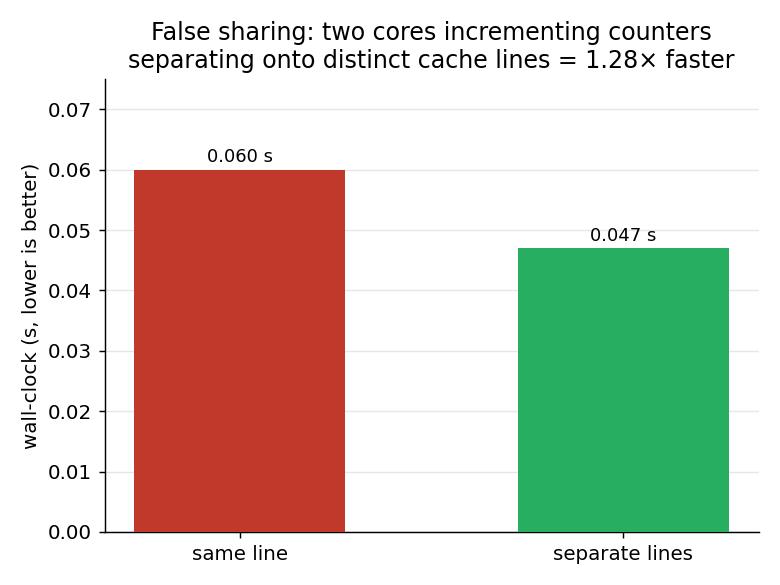
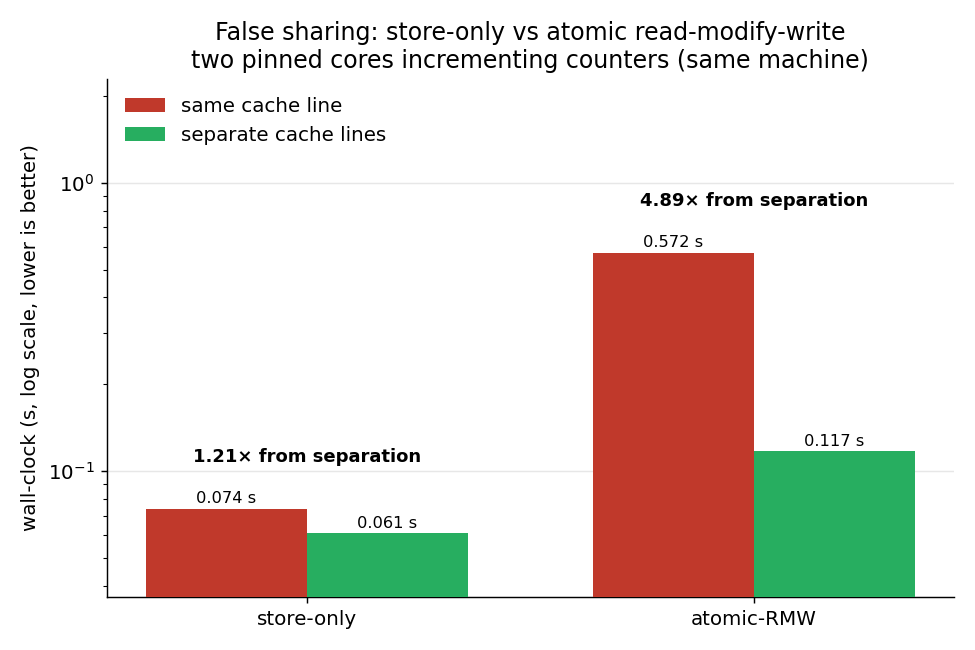
kbuf: refresh false-sharing figure and benchmark write-up
Grouped store-only vs atomic-RMW figure; document both access patterns and
record the host-stability caveat (thermal throttling / desktop noise make a
stable stddev throughput pass impossible on this laptop).

diff --git a/scripts/plot_bench.py b/scripts/plot_bench.py
@@ -8,6 +8,11 @@ writes up. It is the canonical run captured by
 which is gitignored, so the numbers are reproduced here verbatim). Re-run that
 script on a quiet host and update the tables below to refresh the figures.
 
+Throughput and latency are the clean reference pass; the false-sharing numbers
+are from a later pass of the same machine that added the atomic-RMW access
+pattern. See the "Threats to validity" note in docs/BENCHMARKS.md on why this
+laptop does not yield a stable stddev throughput pass.
+
 Usage:
     python3 scripts/plot_bench.py            # writes PNGs into docs/img/
     python3 scripts/plot_bench.py --outdir X
@@ -41,8 +46,14 @@ THROUGHPUT = {
 # mmap one-way latency percentiles, nanoseconds, 20 000 samples.
 LATENCY_NS = {"p50": 2765, "p90": 3185, "p99": 3545, "max": 3811}
 
-# False-sharing micro-bench wall-clock, 200 Mi increments/core.
-FALSE_SHARING_S = {"same line": 0.060, "separate lines": 0.047}
+# False-sharing micro-bench wall-clock, per core: 200 Mi plain-store increments
+# vs 25 Mi atomic read-modify-writes (LOCK XADD). An atomic RMW must own the
+# line exclusively for every op, so sharing a line ping-pongs it between L1s on
+# every increment -- a far larger penalty than the store-only burst pattern.
+FALSE_SHARING_S = {
+    "store-only": {"same line": 0.074, "separate lines": 0.061},
+    "atomic-RMW": {"same line": 0.572, "separate lines": 0.117},
+}
 
 # Consistent identity per transport across every figure.
 COLORS = {"mutex": "#c0392b", "spsc": "#2e86de",
@@ -147,20 +158,37 @@ def plot_latency(outdir):
 
 
 def plot_false_sharing(outdir):
-    fig, ax = plt.subplots(figsize=(6, 4.5))
-    keys = list(FALSE_SHARING_S.keys())
-    vals = [FALSE_SHARING_S[k] for k in keys]
-    colors = ["#c0392b", "#27ae60"]
-    bars = ax.bar(keys, vals, color=colors, width=0.55, zorder=3)
-    for b, v in zip(bars, vals):
-        ax.annotate(f"{v:.3f} s", (b.get_x() + b.get_width() / 2, v),
-                    textcoords="offset points", xytext=(0, 4), ha="center",
-                    fontsize=10)
-    speedup = FALSE_SHARING_S["same line"] / FALSE_SHARING_S["separate lines"]
-    ax.set_ylabel("wall-clock (s, lower is better)")
-    ax.set_ylim(0, max(vals) * 1.25)
-    ax.set_title("False sharing: two cores incrementing counters\n"
-                 f"separating onto distinct cache lines = {speedup:.2f}× faster")
+    fig, ax = plt.subplots(figsize=(7.5, 5))
+    groups = list(FALSE_SHARING_S.keys())  # store-only, atomic-RMW
+    x = list(range(len(groups)))
+    width = 0.36
+    same = [FALSE_SHARING_S[g]["same line"] for g in groups]
+    sep = [FALSE_SHARING_S[g]["separate lines"] for g in groups]
+    b1 = ax.bar([i - width / 2 for i in x], same, width, color="#c0392b",
+                label="same cache line", zorder=3)
+    b2 = ax.bar([i + width / 2 for i in x], sep, width, color="#27ae60",
+                label="separate cache lines", zorder=3)
+    for bars in (b1, b2):
+        for b in bars:
+            ax.annotate(f"{b.get_height():.3f} s",
+                        (b.get_x() + b.get_width() / 2, b.get_height()),
+                        textcoords="offset points", xytext=(0, 3),
+                        ha="center", fontsize=9)
+    for i, g in enumerate(groups):
+        sp = (FALSE_SHARING_S[g]["same line"] /
+              FALSE_SHARING_S[g]["separate lines"])
+        ax.annotate(f"{sp:.2f}× from separation",
+                    (i, max(same[i], sep[i])), textcoords="offset points",
+                    xytext=(0, 26), ha="center", fontsize=10,
+                    fontweight="bold")
+    ax.set_yscale("log")
+    ax.set_ylim(min(same + sep) * 0.6, max(same + sep) * 4)
+    ax.set_xticks(x)
+    ax.set_xticklabels(groups)
+    ax.set_ylabel("wall-clock (s, log scale, lower is better)")
+    ax.set_title("False sharing: store-only vs atomic read-modify-write\n"
+                 "two pinned cores incrementing counters (same machine)")
+    ax.legend(frameon=False, loc="upper left")
     ax.grid(axis="x", visible=False)
     fig.tight_layout()
     path = os.path.join(outdir, "false_sharing.png")

diff --git a/docs/BENCHMARKS.md b/docs/BENCHMARKS.md
@@ -40,15 +40,21 @@ script; update it when you re-bench).
 - **Topology.** One producer process and one consumer process, pinned to two
   distinct physical P-cores with `sched_setaffinity` (`bench/kbuf_bench.c`).
 - **Throughput.** Move a fixed total (64 MiB) in fixed-size chunks; sweep the
-  chunk size; report MB/s = total / wall-clock, as **min/avg/max over 5 runs**.
-  For the slot transports the device is resized so one slot holds one message.
+  chunk size; report MB/s = total / wall-clock. The headline table below is a
+  clean **min/avg/max over 5 runs** pass; the current tool also reports
+  **mean ± sample stddev** (now the default, 10 runs) — see *Threats to
+  validity* on why this thermally-constrained laptop does not yield a stable
+  stddev pass. For the slot transports the device is resized so one slot holds
+  one message.
 - **Latency.** One-way producer→consumer latency on the mmap ring: the producer
   stamps `CLOCK_MONOTONIC` into each 8-byte message, the consumer subtracts on
   receipt. 20 000 samples, sorted for percentiles. All pages are `mlock`ed so
   no sample includes a page fault.
 - **False sharing.** Two pinned processes each increment a counter in a shared
   page for a fixed number of iterations, once with the counters on the **same**
-  cache line and once on **separate** lines; compare wall-clock.
+  cache line and once on **separate** lines; compare wall-clock. Run for two
+  access patterns: plain **store-only** increments (200 Mi/core) and **atomic
+  read-modify-writes** (`LOCK XADD`, 25 Mi/core).
 - Build with `make bench`, then `./bench/kbuf_bench full` on a host with the
   module loaded (`/dev/kbuf0..2`), or use `scripts/run-baremetal-bench.sh`.
 
@@ -80,23 +86,34 @@ core. (An earlier loaded-desktop run reported a p50 of ~32 µs; that was pure
 host noise from preemption and swapping, not the transport. Pinning, `mlockall`,
 and a quiet machine collapsed it.)
 
-## False sharing — 200 Mi increments/core
+## False sharing — store-only vs atomic RMW
 
-![False sharing: same line vs separate cache lines](img/false_sharing.png)
+![False sharing: store-only vs atomic RMW, same vs separate cache lines](img/false_sharing.png)
 
-| layout         | time   |
-|----------------|-------:|
-| same line      | 0.060 s|
-| separate lines | 0.047 s|
+| access pattern | same line | separate lines | separation speedup |
+|----------------|----------:|---------------:|-------------------:|
+| store-only (200 Mi/core)  | 0.074 s | 0.061 s | **1.21×** |
+| atomic-RMW (25 Mi/core)   | 0.572 s | 0.117 s | **4.87×** |
 
-**Separation speedup: 1.29×.** Two cores writing different variables that share
-one cache line bounce the line between their L1s; padding them onto separate
-lines removes that coherence traffic. The magnitude is modest here because each
-core only *stores* (never reads the sibling's value), so the store buffer lets a
-core retain the line for a burst of writes before the other steals it — a
-read-modify-write contention pattern would show a much larger gap. The direction
-is the point, and it is exactly why the mmap control page keeps `head` and
-`tail` on separate cache lines.
+Two cores writing different variables that share one cache line bounce the line
+between their L1s; padding them onto separate lines removes that coherence
+traffic. **How much it costs depends entirely on the access pattern:**
+
+- With **plain stores** the penalty is modest (~1.21×). Each core only *stores*
+  (never reads the sibling's value), so its store buffer lets it retain the line
+  for a burst of writes before the other steals it — the line still bounces, but
+  amortised across a burst.
+- With an **atomic read-modify-write** (`LOCK XADD`) the penalty is large
+  (~4.87×). Every single increment must acquire the line in *exclusive* state, so
+  a shared line ping-pongs between the two L1s on **every** op — there is no
+  burst to amortise. This is the textbook false-sharing cost.
+
+Both directions are the same lesson, and it is exactly why the mmap control page
+keeps `head` and `tail` on separate cache lines: a producer publishing `head`
+and a consumer publishing `tail` must never contend for one line. (These
+counters use release stores, not RMWs, so the real ring sits nearer the
+store-only case — but the atomic experiment shows how sharp the cliff becomes
+the moment a contended atomic is involved.)
 
 ## Discussion
 
@@ -126,11 +143,15 @@ is the point, and it is exactly why the mmap control page keeps `head` and
 - Single dual-core placement (one P-core pair); no NUMA dimension on this
   single-socket laptop part. A server run across sockets would add a NUMA
   placement sweep.
-- Error bars are reported as min/avg/max over 5 runs, not stddev with a
-  confidence interval; more runs would tighten this.
+- **Host stability bounds the throughput/latency numbers.** The headline table
+  is a clean min/avg/max pass. The tool now reports mean ± stddev over 10 runs,
+  but on this laptop back-to-back `performance`-governor passes drive thermal
+  throttling and the desktop steals the pinned P-cores: repeat passes showed the
+  mmap@64 B cell swing from ~5.0 GB/s down to ~1.0 GB/s and the mmap latency p50
+  balloon from ~2.8 µs to ~39 µs — host noise, not the transport. Stable stddev
+  bars need a quiesced, thermally-headroomed machine (a server, `isolcpus` +
+  `nohz_full`, or a cooled bench), which is the right place to redo this.
 - Bandwidth, not goodput, at large sizes — all transports approach the same
   `memcpy` ceiling, so the interesting regime is small messages.
-- The false-sharing probe uses store-only increments; an atomic RMW variant
-  would demonstrate a larger coherence penalty.
 - P-core vs E-core placement is unexplored; all numbers here are P-core to
   P-core.

diff --git a/README.md b/README.md
@@ -173,7 +173,9 @@ per-message syscall cost amortises, every transport trends toward memory-copy
 bandwidth, so the interesting regime is small messages. One-way mmap latency is
 ~2.8 µs at the median with a tight tail (max only ~1.4× the median). The
 control-page cache-line separation is justified by a [standalone false-sharing
-experiment](docs/BENCHMARKS.md#false-sharing--200-mi-incrementscore).
+experiment](docs/BENCHMARKS.md#false-sharing--store-only-vs-atomic-rmw): putting
+two cores' counters on the same line vs separate lines costs **4.9×** under
+atomic read-modify-writes (1.2× for plain stores).
 
 ## Layout
 